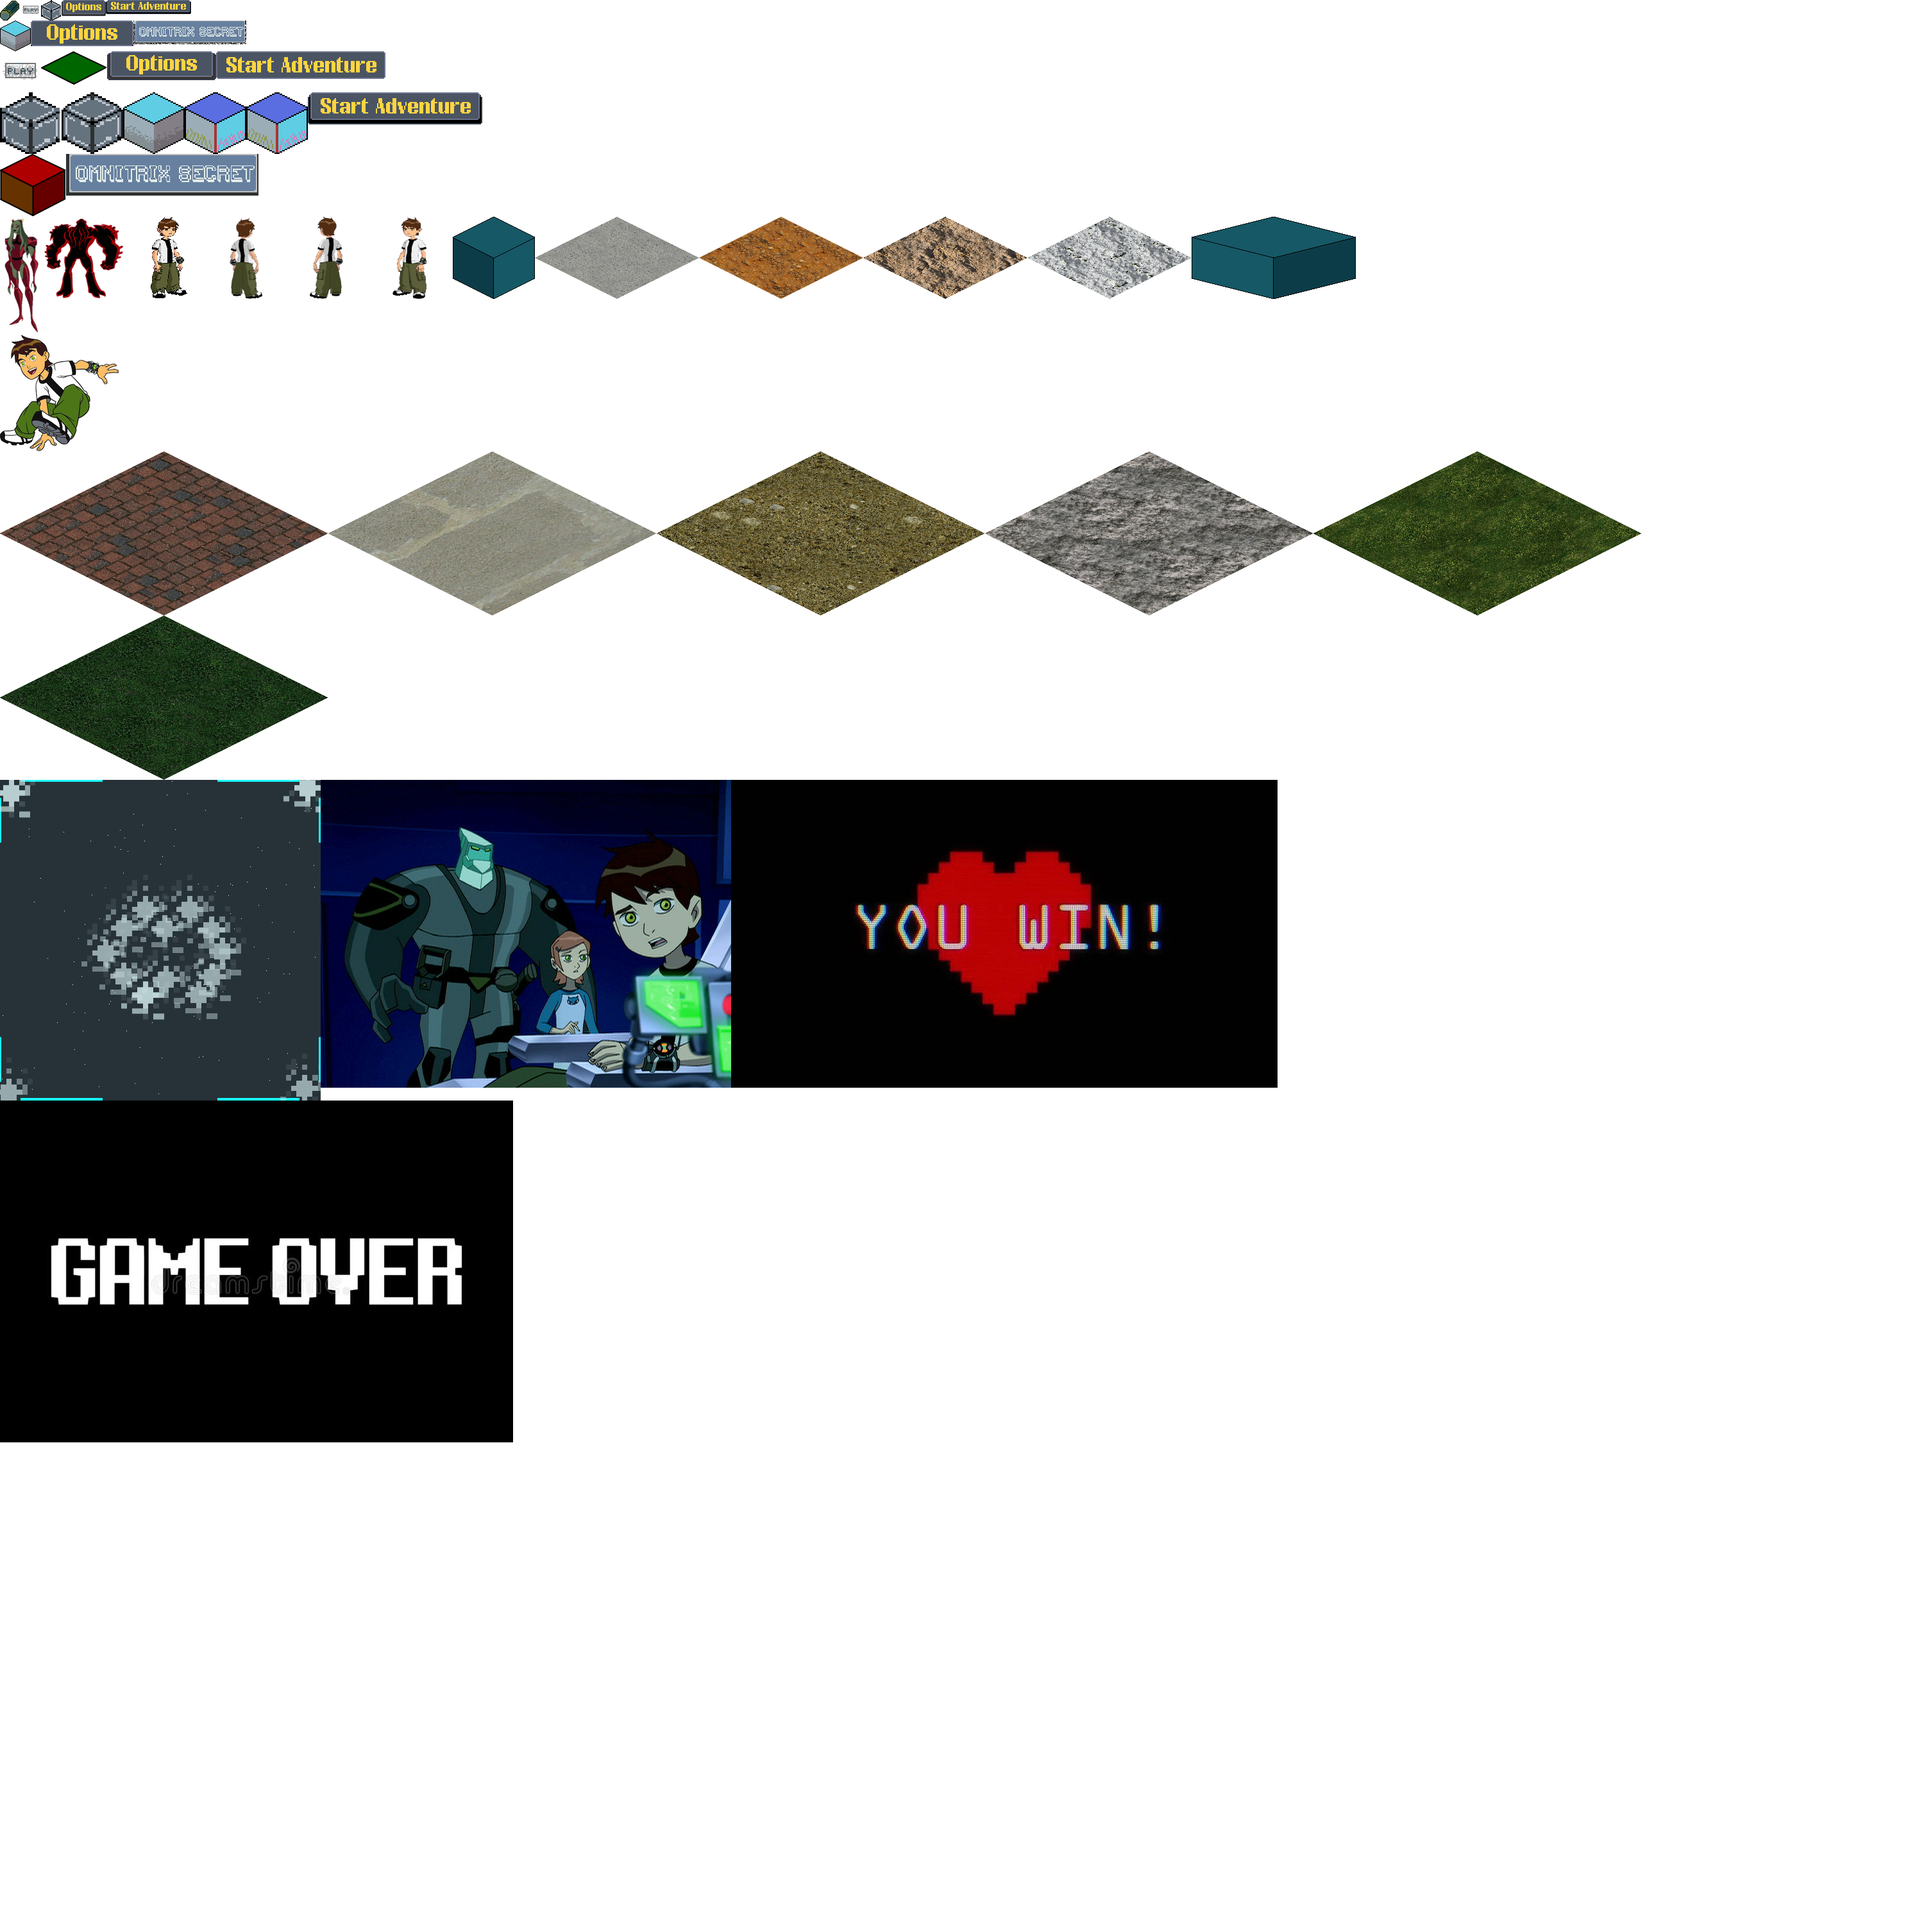
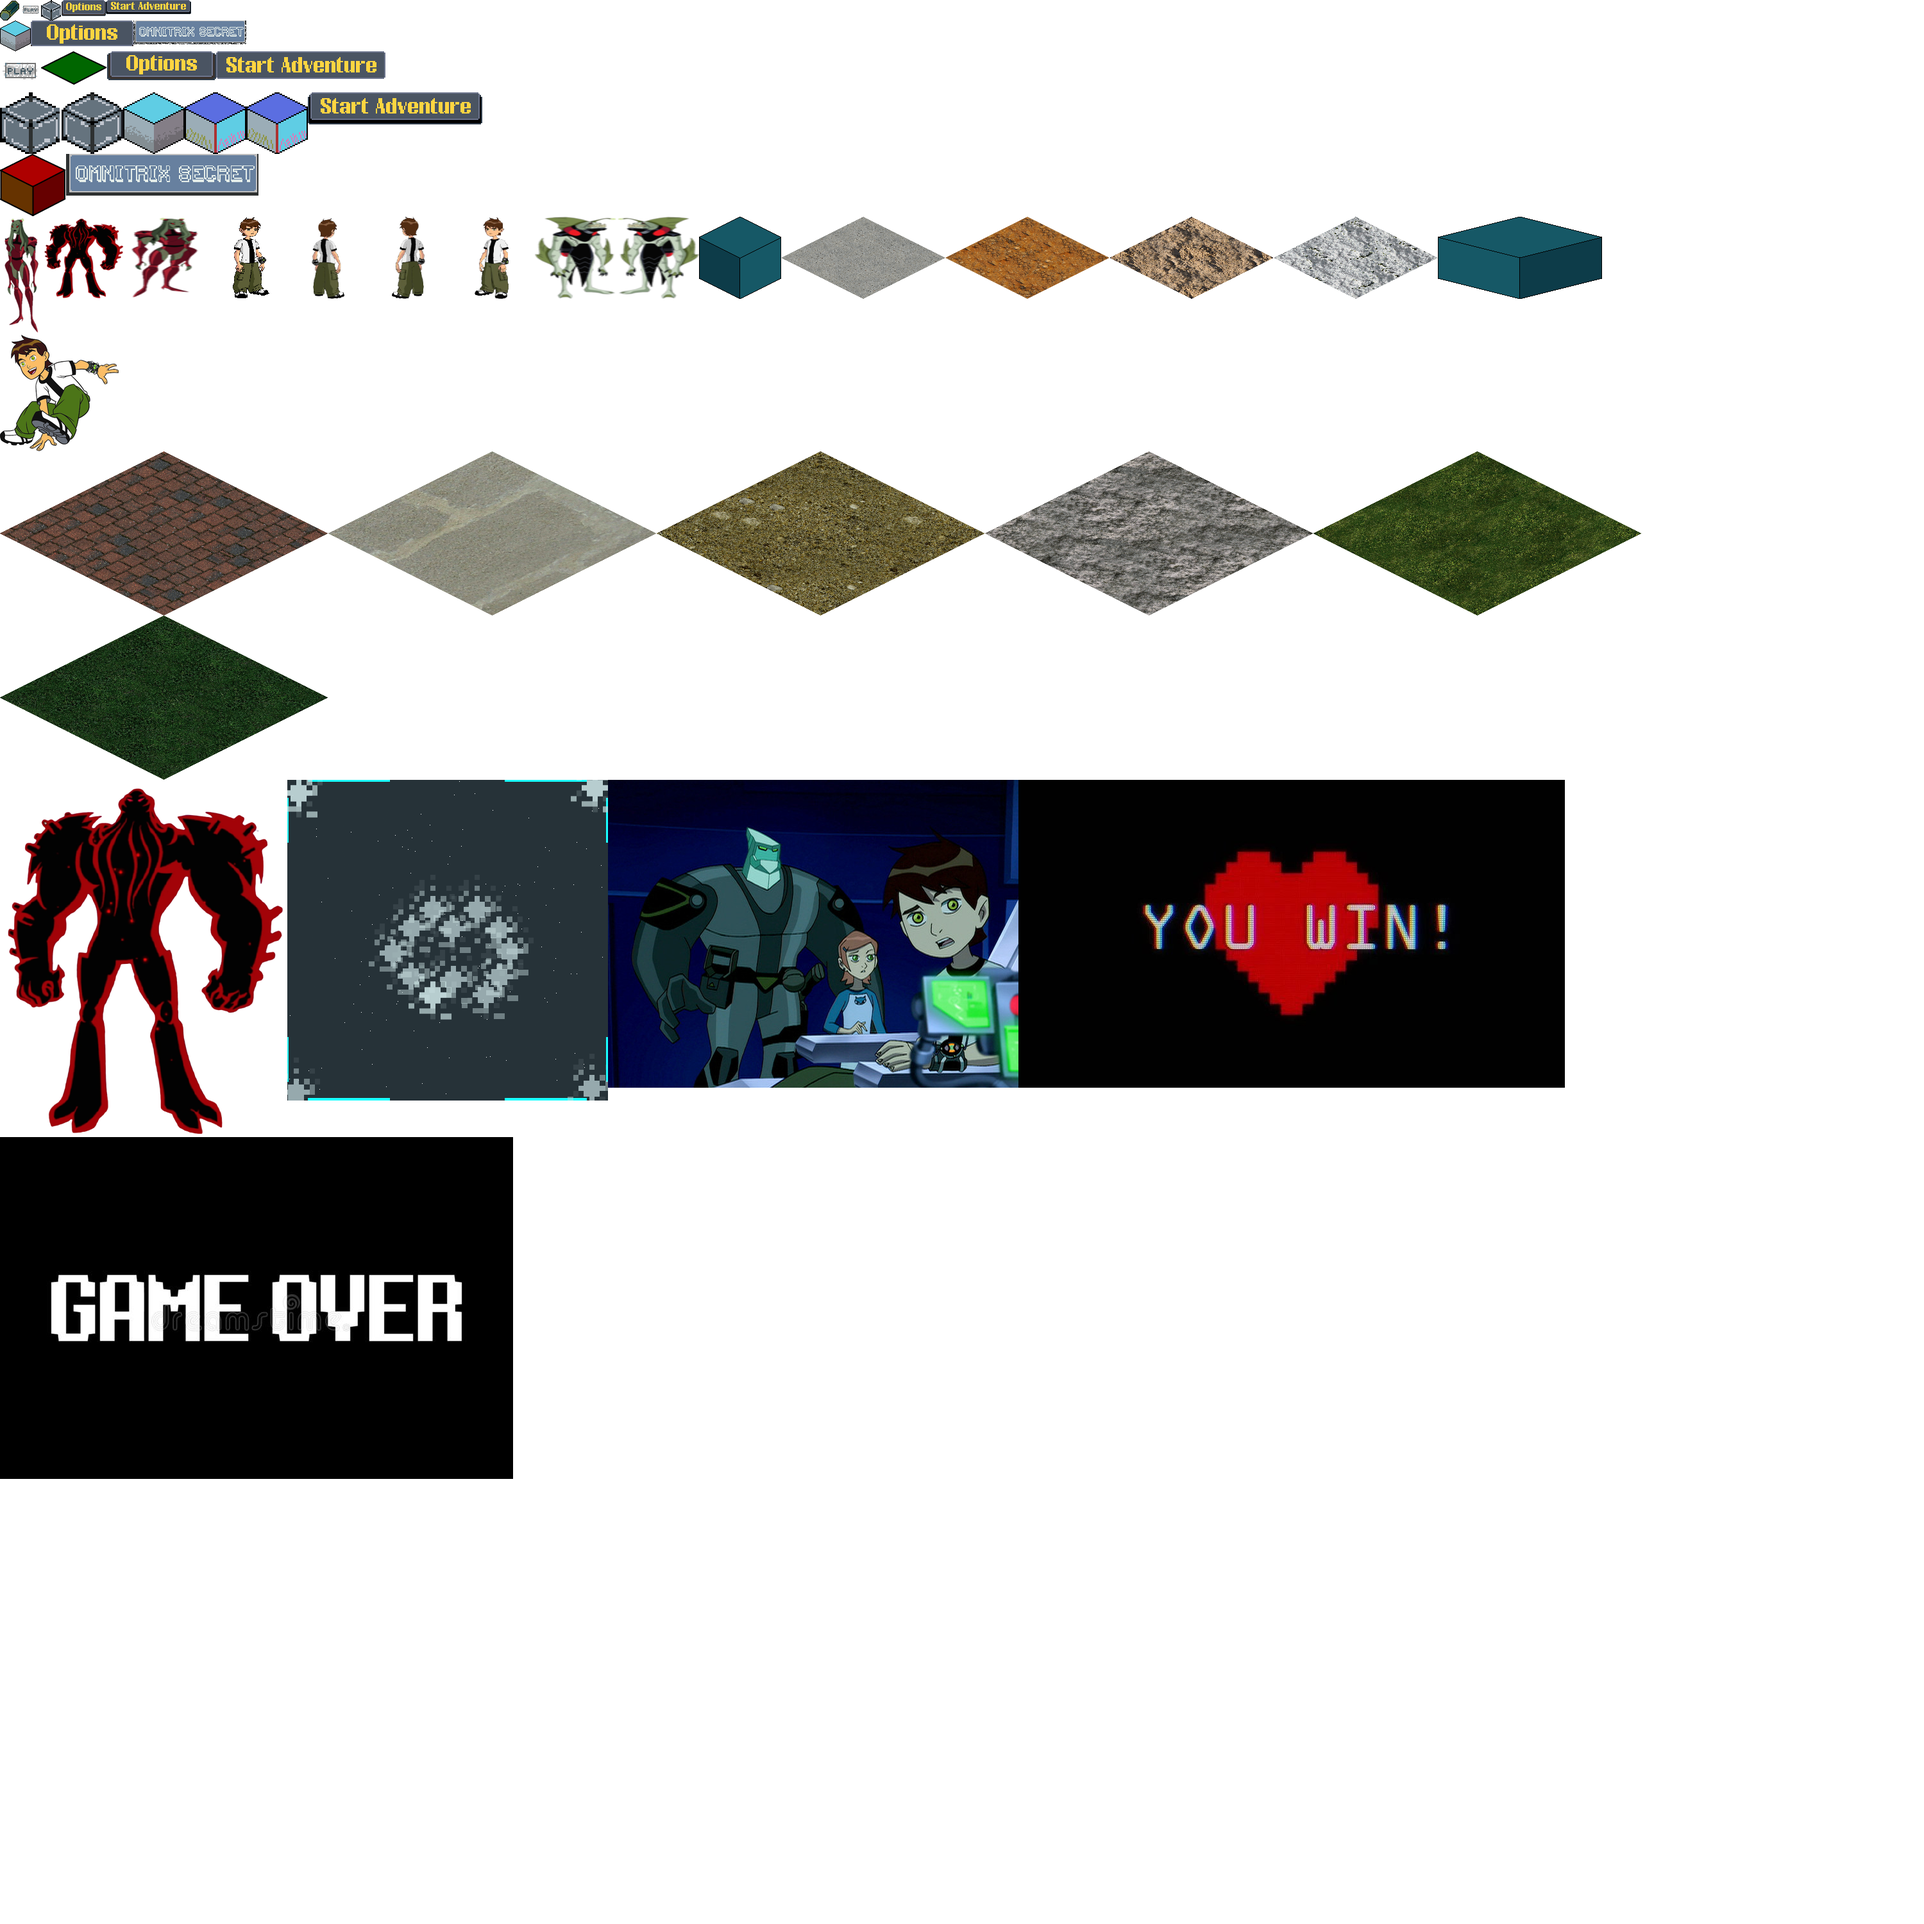
2nd scene

diff --git a/ben_ten_adventure/manager.py b/ben_ten_adventure/manager.py
@@ -35,6 +35,13 @@ class EntityManager:
         if self.can_add(entity):
             self.entity_list.append(entity)
             self.id_list.append(entity.id)
+        else:
+            self.id_list.remove(entity.id)
+            for i in range(len(self.entity_list)):
+                if self.entity_list[i].id == entity.id:
+                    self.entity_list.pop(i)
+                    break
+            self.add_entity(entity)
 
     def get_list(self):
         return self.entity_list
@@ -73,6 +80,10 @@ class EntityManager:
 
     def render(self, screen=None, border_offset=[500, 100]):
         self._render.render(self.entity_list, screen, border_offset)
+
+    def clear(self):
+        self.entity_list = []
+        self.id_list = []
 
 
 class AdventureScene:
@@ -159,42 +170,60 @@ class SecretOfTheOmnitrix(AdventureScene):
         kwargs = {}
         kwargs['map'] = pytmx.TiledMap(join(DEFAULT_RESOURCES_PATH, "maps", "scene_1.tmx"))
         self.game.MAP_WIDTH, self.game.MAP_HEIGHT = kwargs['map'].width, kwargs['map'].height
-        npc_images = [self.game.ga.ben10_1_128_128, self.game.ga.ben10_2_128_128,
-                      self.game.ga.ben10_3_128_128, self.game.ga.ben10_4_128_128]
-        kwargs['npcs'] = [NPC(str(i + 1), image=npc_images,
-                              x=randint(0, self.game.MAP_WIDTH * self.game.TILE_SIZE),
-                              entity_manager=self.game.entity_manager,
-                              speed=randint(1, 3)) for i in range(15)]
+
+        kwargs['myaxx'] = NPC('Myaxx', entity_manager=self.game.entity_manager, image=[self.game.ga.Myaxx_128_128], hp=50, x=600, y=500, speed=5)
+        kwargs['npcs_count'] = 24
+        kwargs['npc_images'] = [self.game.ga.volann1_128_128, self.game.ga.volann1_128_128,
+                      self.game.ga.volann2_128_128, self.game.ga.volann2_128_128]
+        kwargs['npcs'] = []
+        kwargs['npcs_random'] = []
+        for i in range(0, kwargs['npcs_count'], 2):
+            kwargs['npcs'] += [NPC(str(i), image=kwargs['npc_images'],
+                                  x=randint(kwargs['myaxx'].x - 300, kwargs['myaxx'].x + 300),
+                                  y=randint(kwargs['myaxx'].y - 300, kwargs['myaxx'].y + 300),
+                                  entity_manager=self.game.entity_manager,
+                                  speed=randint(2, 5))]
+            kwargs['npcs_random'] += [NPC(str(i + 1), image=kwargs['npc_images'],
+                                  x=randint(0, self.game.MAP_WIDTH * self.game.TILE_SIZE),
+                                  y=randint(0, self.game.MAP_HEIGHT * self.game.TILE_SIZE),
+                                  entity_manager=self.game.entity_manager,
+                                  speed=randint(1, 3))]
         ben_images = [self.game.ga.ben10_1_128_128, self.game.ga.ben10_2_128_128,
                       self.game.ga.ben10_3_128_128, self.game.ga.ben10_4_128_128]
         kwargs['player'] = Player('Ben', entity_manager=self.game.entity_manager, image=ben_images, x=250, y=250, speed=15)
-        kwargs['myaxx'] = NPC('Myaxx', entity_manager=self.game.entity_manager, image=[self.game.ga.Myaxx_ov_render], hp=50, x=600, y=500, speed=5)
         kwargs['player'].set_friends(kwargs['myaxx'])
-        kwargs['vilgax'] = NPC('Vilgax', image=[self.game.ga.Alien_V_128_128], entity_manager=self.game.entity_manager, hp=250, x=700, y=600, speed=5)
-        kwargs['vilgax'].attack_pause = 40
-        kwargs['vilgax'].damage = 100
         kwargs['player'].set_friends(kwargs['myaxx'])
 
-        kwargs['atom_fn_bomb'] = BaseWeapon(180, 1000, 50)
-        kwargs['player'].set_weapon(kwargs['atom_fn_bomb'])
+        kwargs['blaster'] = BaseWeapon(50, 100, 20)
+        kwargs['player'].set_weapon(kwargs['blaster'])
 
         def myaxx_follow_player(custom_self, current_tick):
             if custom_self.player.is_near(custom_self.myaxx):
                 self.play_data.update({'win': True})
-                
-            
-        
+            elif custom_self.player.hp <= 0:
+                self.play_data.update({'win': False})
+            if custom_self.player.id not in self.game.entity_manager.id_list:
+                custom_self.is_canceled = True
+                return
+
         def npcs_attack_player(custom_self, current_tick):
             for npc in custom_self.npcs:
                 npc.go_to(custom_self.player)
                 npc.attack(custom_self.player)
                 # npc.random_move()
-        
-        def vilgax_attack_player(custom_self, current_tick):
-            custom_self.vilgax.go_to(custom_self.player)
-            custom_self.vilgax.attack(custom_self.player)
             if custom_self.player.id not in self.game.entity_manager.id_list:
-                self.play_data.update({'win': False})
+                custom_self.is_canceled = True
+                return
+
+        def npcs_random_move(custom_self, current_tick):
+            for npc in custom_self.npcs:
+                npc.random_move()
+        
+        # def vilgax_attack_player(custom_self, current_tick):
+        #     custom_self.vilgax.go_to(custom_self.player)
+        #     custom_self.vilgax.attack(custom_self.player)
+        #     if custom_self.player.id not in self.game.entity_manager.id_list:
+        #         self.play_data.update({'win': False})
         
         self.game.task_manager.schedule_repeating_task({
             'myaxx': kwargs['myaxx'],
@@ -207,19 +236,23 @@ class SecretOfTheOmnitrix(AdventureScene):
             'player': kwargs['player'],
             'on_run':  npcs_attack_player
         }, period=15)
-        
+
         self.game.task_manager.schedule_repeating_task({
-            'vilgax': kwargs['vilgax'],
-            'player': kwargs['player'],
-            'on_run':  vilgax_attack_player
+            'npcs': kwargs['npcs_random'],
+            'on_run': npcs_random_move
         }, period=15)
+        # self.game.task_manager.schedule_repeating_task({
+        #     'vilgax': kwargs['vilgax'],
+        #     'player': kwargs['player'],
+        #     'on_run':  vilgax_attack_player
+        # }, period=15)
 
         kwargs['camera'] = Camera()
 
         self.game.sql_data.player = 'Ben'
         self.game.sql_data.add_npc_count(len(self.game.entity_manager.get_list()) - 1)
         self.game.sql_data.friends_count(len(kwargs['player'].friends_ids))
-        self.game.sql_data.main_enemy = 'Vilgaxx'
+        # self.game.sql_data.main_enemy = 'Vilgaxx'
 
         return kwargs
 
@@ -228,13 +261,28 @@ class SecretOfTheOmnitrix(AdventureScene):
         Fight between Ben 10 and prisoners. Save Myaxx
         """
         if 'win' in kwargs:
-            self.game.sql_data.scenes_res[0] = 'Win'
+            if kwargs['win']:
+                self.game.sql_data.scenes_res[0] = 'Win'
+            else:
+                self.game.sql_data.scenes_res[0] = 'Game Over'
             return self.END
-        # elif kwargs['player'].hp <= 0:
-        #     return self.END
+
         self.render_map(kwargs)
         self.handle_event(kwargs)
         self.game.entity_manager.render(self.game.screen)
+        while len(self.game.entity_manager.get_id_list()) < 20:
+            kwargs['npcs_count'] += 2
+            kwargs['npcs'] += [NPC(str(kwargs['npcs_count']), image=kwargs['npc_images'],
+                                  x=randint(0, self.game.MAP_WIDTH * self.game.TILE_SIZE),
+                                  y=randint(0, self.game.MAP_HEIGHT * self.game.TILE_SIZE),
+                                  entity_manager=self.game.entity_manager,
+                                  speed=randint(1, 3))]
+            kwargs['npcs_random'] += [NPC(str(kwargs['npcs_count'] - 1), image=kwargs['npc_images'],
+                                         x=randint(0, self.game.MAP_WIDTH * self.game.TILE_SIZE),
+                                         y=randint(0, self.game.MAP_HEIGHT * self.game.TILE_SIZE),
+                                         entity_manager=self.game.entity_manager,
+                                         speed=randint(1, 3))]
+
         # kwargs['vilgax'].go_to(kwargs['player'])
         # kwargs['vilgax'].attack(kwargs['player'])
 
@@ -290,7 +338,13 @@ class SecretOfTheOmnitrix(AdventureScene):
 
             stage = self.stages[self._index]
             if stage(kwargs=self.play_data) == self.END:
-                if self._index + 1 < len(self.stages):
+                if 'win' in self.play_data and not self.play_data['win']:
+                    self._index = 1
+                    self.game.entity_manager.clear()
+                    initialization_function = self.init_funcs[self._index]
+                    self.play_data = initialization_function()
+
+                elif self._index + 1 < len(self.stages):
                     self._index += 1
                     initialization_function = self.init_funcs[self._index]
                     self.play_data.update(initialization_function())
@@ -311,7 +365,7 @@ class SecretOfTheOmnitrix(AdventureScene):
                 asset_name = file_name.split('.')[0]
                 tile_size = self.game.TILE_SIZE
                 border_offset = (abs(self.game.RESOLUTION[0] - tile_size * self.game.MAP_WIDTH) // 2 - tile_size // 2,
-                                 -self.game.MAP_HEIGHT * tile_size // 2 + self.game.RESOLUTION[1])
+                                 -self.game.MAP_HEIGHT // 2 * tile_size // 2 + self.game.RESOLUTION[1] // 2)
                 tile = Tile(x, y, border_offset, image=getattr(self.game.ga, asset_name), tile_size=tile_size)
                 tile.render_isometric_tile(self.game.screen)
 
@@ -445,7 +499,6 @@ class TaskManager:
         if self.tasks:
             for task in self.tasks:
                 task.on_cancel()
+                task.is_canceled = True
             self.tasks = []
         self.id = -1
-            
-        

diff --git a/ben_ten_adventure/entity.py b/ben_ten_adventure/entity.py
@@ -51,7 +51,7 @@ class BaseEntity(pygame.sprite.Sprite):
             self.entity_manager.add_entity(self)
 
     def __str__(self):
-        return f'{self.__class__.__name__} {self.id}'
+        return f'{self.__class__.__name__} {self.entity_manager.get_list}'
 
     def __repr__(self):
         return self.__str__()
@@ -373,7 +373,7 @@ class NPC(BaseEntity):
                 self.texture = self.image[self.rotation]
 
     def find_path(self, x, y):
-        # you'd better not use it, it's too long
+        # you'd better not use it, it's too long  and still not correct
         width, height = max(self.x, x) + abs(self.x - x), max(self.y, y) + abs(self.y - y)
         map = [[-1] * width for _ in range(height)]
         distance = 0
